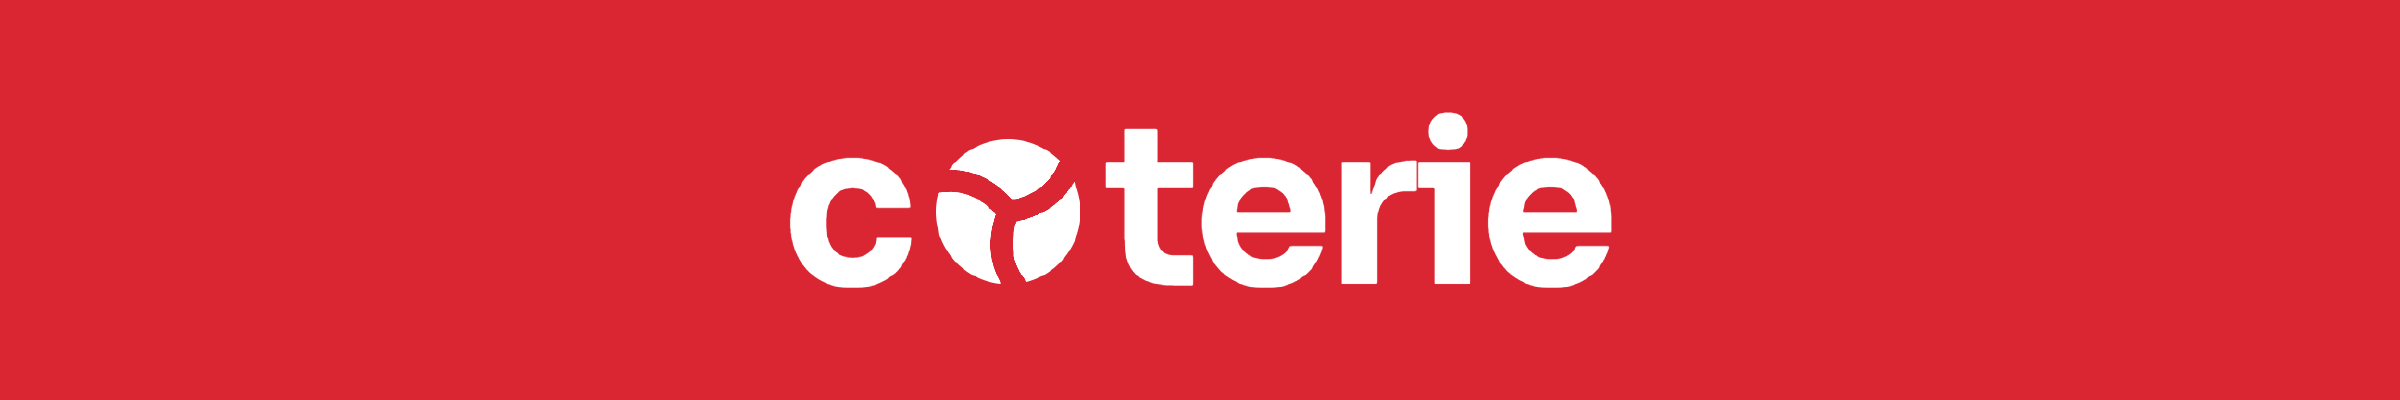
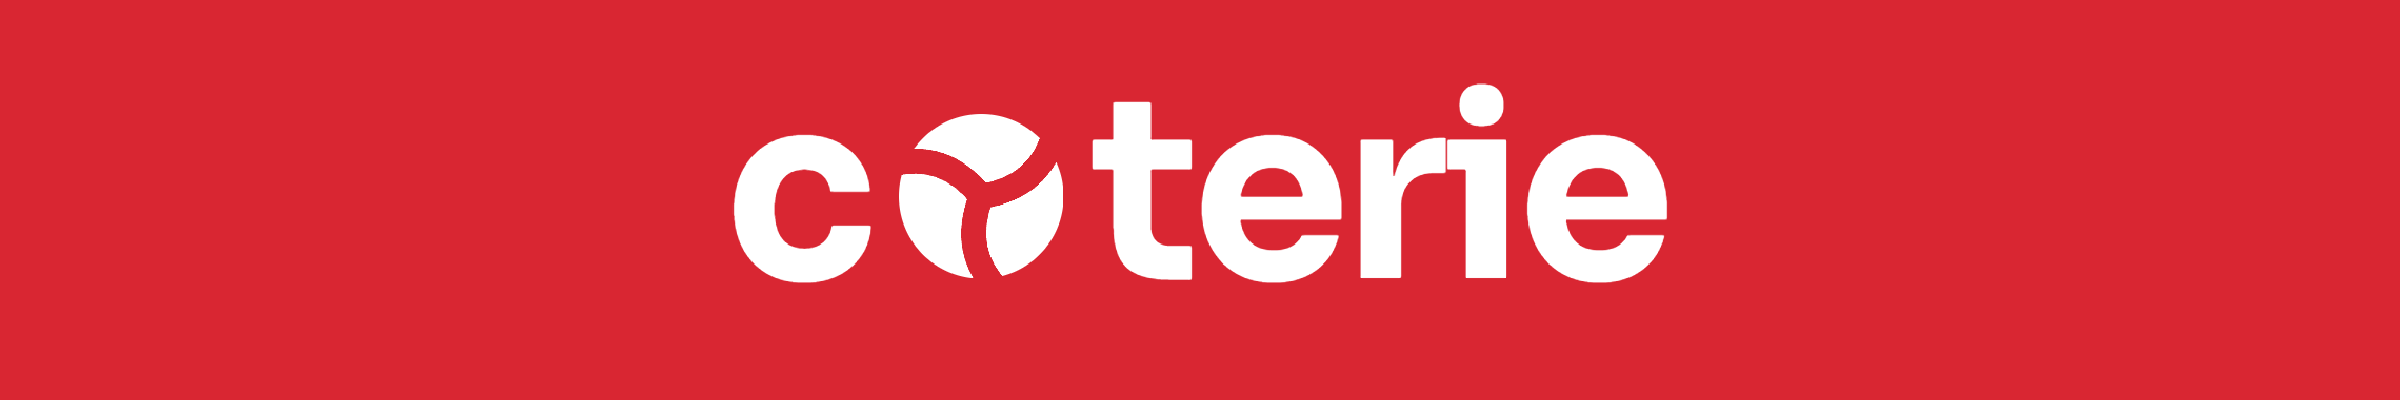
Fix the cover wordmark spacing: optical centring + kerned variant
Two measured causes. The word is lowercase with no descenders, so the
top 30% of its bounding box holds 10% of the ink - box-centring sat it
about 9% of its height low. The banner now centres vertically on the ink
mass centroid, a 17px lift, and horizontally on the box, and the
wordmark grew from 44% to 50% of the banner height.

The source artwork also spaces the ball-as-o at 27-28px where ordinary
letter gaps are 10-20px. It was kerned for a solid disc, and knocking it
out breaks the silhouette, so the word reads as three pieces rather than
one. New tightenGaps closes gaps wider than 20px, shipped as a separate
-kerned file since re-kerning the wordmark is a brand decision.

Changed region(s): [[0.2812, 0.21, 0.7188, 0.72]]

diff --git a/PROJECT_STATE.md b/PROJECT_STATE.md
@@ -196,7 +196,8 @@ Ordered by priority. Update status inline as these move.
 - Aidan needed a cover image and a logo image for the Tally volleyball survey.
   `scripts/gen-logo.mjs` step 8 now also writes **`brand-exports/`**, so these
   can't drift from the artwork and exist on both machines:
-  - `coterie-cover-red-2400x400.png` — white wordmark centred on brand red.
+  - `coterie-cover-red-2400x400.png` — white wordmark centred on brand red, plus
+    a `-kerned` variant (see below).
   - `coterie-logo-tile-white-512.png` / `coterie-logo-tile-red-512.png` — square
     logo tiles, mark inset 18% (vs 13% for the app icons) so a **circular** crop
     can't clip it.
@@ -205,9 +206,26 @@ Ordered by priority. Update status inline as these move.
   background shows through the seams instead of the seams being white-on-red;
   and `trim()` crops to the visible ink so centring isn't thrown off by the
   artwork's own margins.
-- The cover is 6:1 with the wordmark held to ~34% of the width on purpose: form
+- The cover is 6:1 with the wordmark held under 40% of the width on purpose: form
   covers are centre-cropped, and that keeps the wordmark whole even when the
   strip crops to mobile proportions.
+- **Spacing fix, same day** (Aidan: "the spacing for coterie doesn't look that
+  good"). Two measured causes, both addressed:
+  1. *Optical centring.* "coterie" is all lowercase with no descenders, so the
+     top 30% of its bounding box holds 10% of the ink (the t stem and the i dot).
+     Centring the box therefore sat the word ~9% of its own height low. The
+     banner now centres on the ink **mass centroid** vertically (a 17px lift at
+     200px tall) and on the bounding box horizontally. Wordmark also grew from
+     44% → 50% of the banner height.
+  2. *Kerning around the ball.* The source artwork spaces the ball-as-o at 27–28px
+     (at 1056px wide) where ordinary letter gaps are 10–20px. It was kerned for a
+     solid red disc; knocking it out breaks the silhouette where the seams reach
+     the edge, so the ball reads narrower than it was spaced for and the word
+     splits into "c ● terie". New `tightenGaps()` closes any interior gap wider
+     than 20px, dropping the surplus from the middle so both glyph edges keep
+     equal air. Shipped as a **separate `-kerned` file** rather than applied to
+     the only copy: re-kerning the wordmark is a brand decision, and Jabez is
+     redrawing the logo anyway.
 
 **Tone-of-voice pass across the app + brand record (2026-07-30):**
 - Trigger: Aidan updated the designer brief (`Jabez (App design) (1).docx`, in
